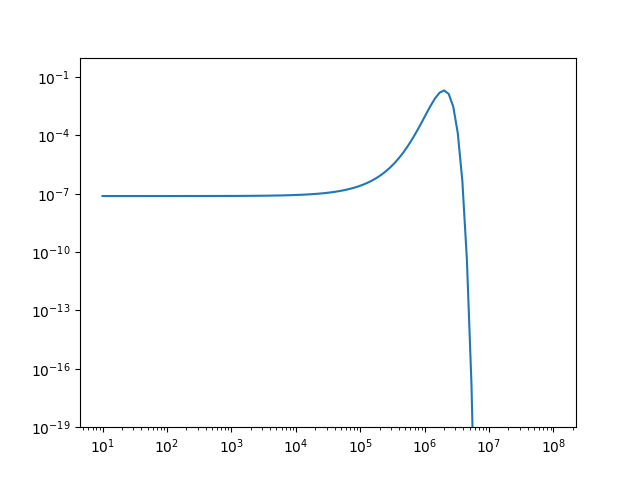
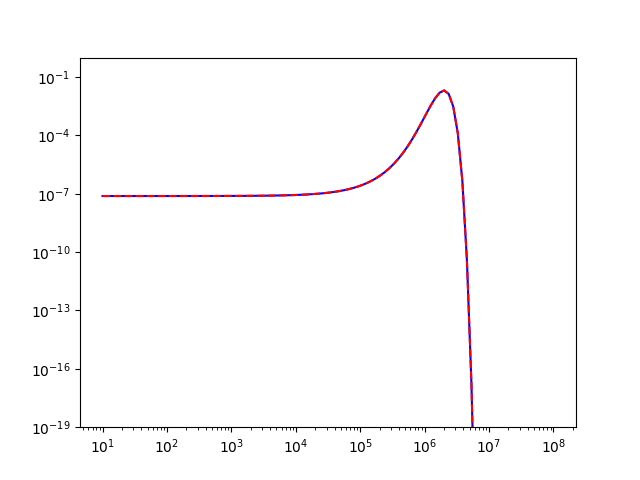
implementation read_from_file PS

diff --git a/source/power_spectrum.py b/source/power_spectrum.py
@@ -263,6 +263,24 @@ class PS_UserImport(PS_Base):
     def PS(self, kk):
         PS = self.interp_func(kk)
         return PS
+    
+
+class PS_ReadFromFile(PS_Base):
+
+    def __init__(self, path): 
+        
+        data = np.loadtxt(path, comments="#", usecols=(0, 1))
+        user_k = data[:,0]
+        user_PS = data[:,1]
+
+        self._user_k = user_k 
+        self._user_PS = user_PS
+        self.interp_func = interp1d(user_k, user_PS) 
+        self.k_lims = [np.min(user_k), np.max(user_k)]
+            
+    def PS(self, kk):
+        PS = self.interp_func(kk)
+        return PS
 
 
 class PS_UserFunction(PS_Base):
@@ -290,6 +308,7 @@ class PowerSpectrum:
     user_import = PS_UserImport
     user_function = PS_UserFunction
     vacuum = PS_Vacuum
+    read_from_file = PS_ReadFromFile
 
     def get_defaultPS():
         
@@ -310,6 +329,9 @@ class PowerSpectrum:
         if model=="preheating": return PowerSpectrum.preheating(kargs)
         if model=="multifield": return PowerSpectrum.multifield(kargs)
         if model=="vacuum": return PowerSpectrum.vacuum(kargs)
+        if model=="from_file": return  PowerSpectrum.read_from_file(kargs) 
+        if model=="user_import": return  PowerSpectrum.user_import(kargs)
+        if model=="user_function": return  PowerSpectrum.user_function(kargs) 
 
 
    
@@ -337,10 +359,20 @@ if __name__ == "__main__":
     ks = 10**np.linspace(1.0, 8.0, 100, True)   
     print( np.min(myPS.PS(ks)), np.max(myPS.PS(ks))  )
 
+    data = np.zeros((len(ks), 2))
+    data[:,0] = ks
+    data[:,1] = myPS.PS(ks)
+
+    fn_psdef = "../data/default_powerspectra.txt"
+    np.savetxt(fn_psdef, data, header=" Default powerspectra (Gaussian) saved in example file 'power_spectrum.py'.")
+
+    # Test of read_from_file option
+    myPS2 = PowerSpectrum.read_from_file(fn_psdef)
 
     import matplotlib.pyplot as plt
 
-    plt.plot(ks, myPS.PS(ks))
+    plt.plot(ks, myPS.PS(ks), "b-")
+    plt.plot(ks, myPS2.PS(ks), "r--")
     plt.yscale("log")
     plt.xscale("log")
     plt.ylim(1e-19, 1)
